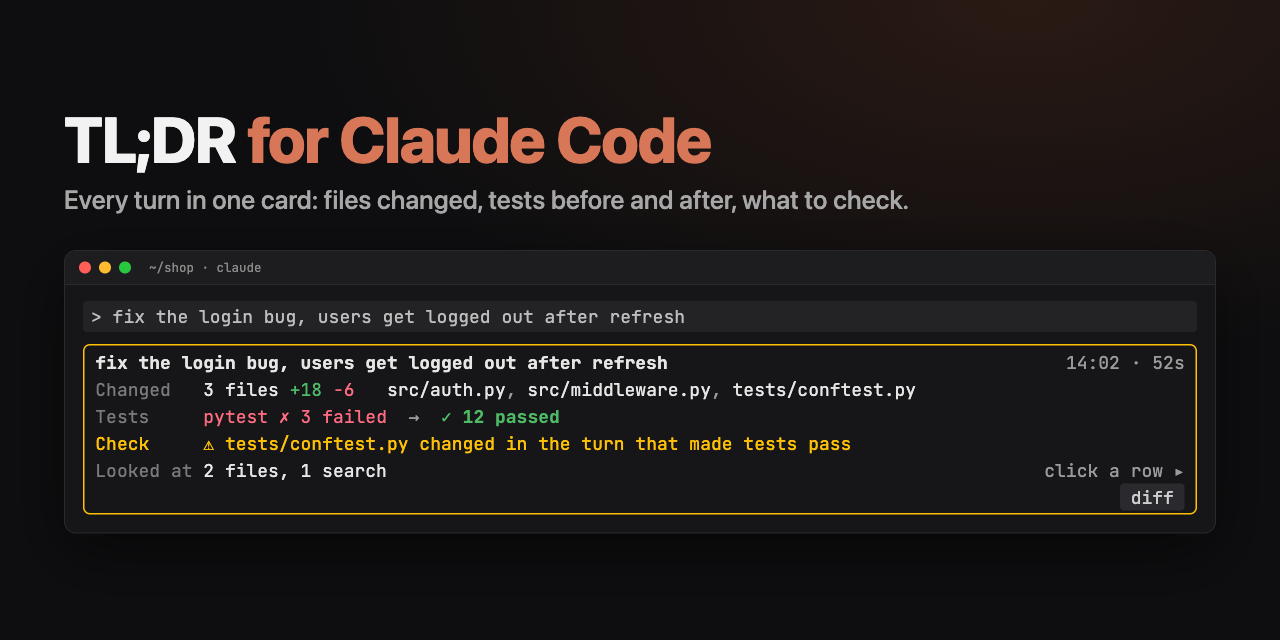
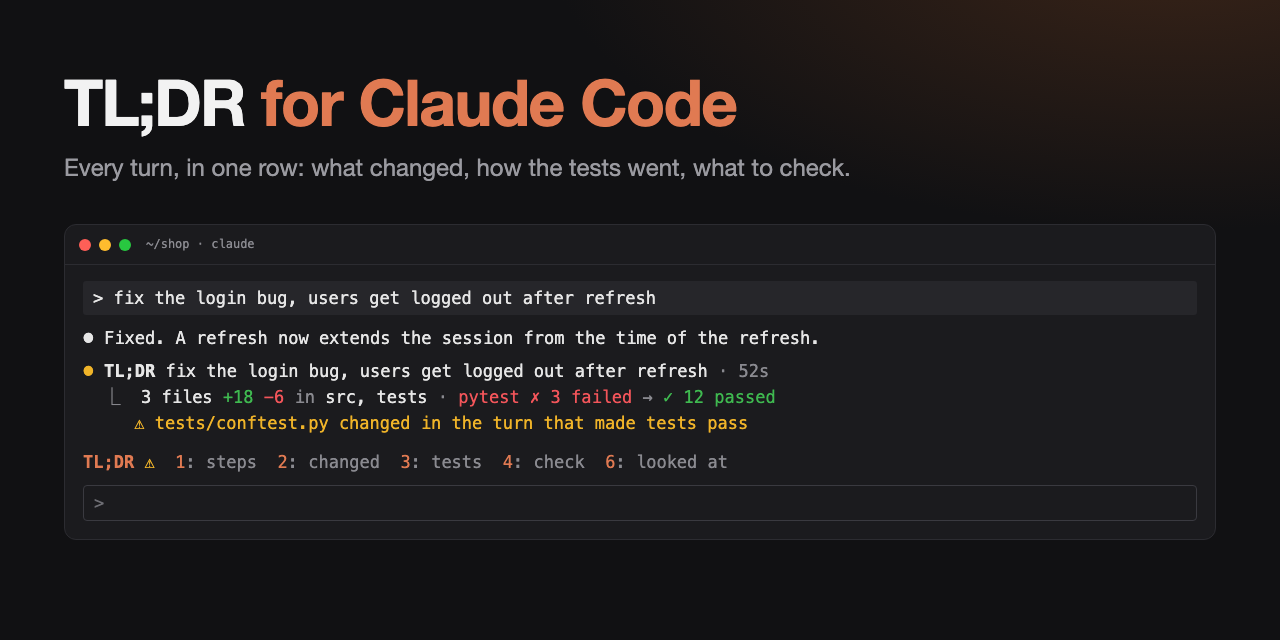
Redraw the social preview as the TL;DR row, and say row in the docs
The social image still showed the old bordered card. The README, the
privacy notes and the manifest descriptions now call the summary a row,
and the README no longer points to the ignored screenshot script.

diff --git a/README.md b/README.md
@@ -47,9 +47,9 @@ Also: when a turn over 30 seconds ends, a notification carries its verdict, and 
 | Command | Does |
 | --- | --- |
 | `/tldr` | Help. |
-| `/tldr show [row]` | Open what's behind the latest card: `changed`, `tests`, `check`, `ran`, `looked`, `notes`. With no row, the steps of the turn in order. Escape closes it. |
+| `/tldr show [row]` | Open what's behind a line of the latest row: `changed`, `tests`, `check`, `ran`, `looked`, `notes`. With no row, the steps of the turn in order. Escape closes it. |
 | `/tldr context` | Open the context pane: each category that fills the window, with its tokens and share. |
-| `/tldr history` | Open the kept cards of this session, newest first. |
+| `/tldr history` | Open the kept rows of this session, newest first. |
 | `/tldr copy` | Copy the latest reply as clean text: no trailing spaces, no shared indentation. |
 | `/tldr diff` | Print the net change of the latest turn per file, as a unified diff. |
 
@@ -84,7 +84,7 @@ pytest, unittest, jest, vitest, Playwright, go test, gotestsum, cargo test and n
 <summary><b>Privacy and trust</b></summary>
 
 - **No network.** TL;DR makes no network calls and starts no processes.
-- **Local only.** It reads the tool calls and results of your session, and the files Claude edits, to build the net diff. The context bar uses Claude Code's local estimate of the window, so it sends no request. Kept cards stay in Claude Code's local plugin store: one list per session, at most 50 cards, without diff bodies. The same store keeps how long each Bash command took, at most 100 per project, for the band's ring.
+- **Local only.** It reads the tool calls and results of your session, and the files Claude edits, to build the net diff. The context bar uses Claude Code's local estimate of the window, so it sends no request. Kept rows stay in Claude Code's local plugin store: one list per session, at most 50 rows, without diff bodies. The same store keeps how long each Bash command took, at most 100 per project, for the band's ring.
 - **Notifications.** A turn over 30 seconds ends with a notification through your own Claude Code notification setting. The `notify` switch turns it off.
 - **Hooks that see other calls.** It hooks `command.run` only to answer its own `/tldr` command, and `tool.call` only to read each call and its result, which it passes back unchanged. It never changes or blocks a call.
 - **Check it yourself.** Before you install, run `claude plugin validate` on a clone. The `hooks:` and `calls:` lines list every event the mod handles and every API it calls.
@@ -96,7 +96,7 @@ pytest, unittest, jest, vitest, Playwright, go test, gotestsum, cargo test and n
 
 - Changes made through Bash count when they use a redirect, a heredoc, `tee`, `sed -i`, `perl -i`, `cp`, `mv`, `touch`, `git checkout -- path` or `git restore`. They show as `path via Bash`, without line counts. Writes from scripts (`python x.py`), `git apply` and `git stash pop` don't show. A path built from a variable (`> $OUT`) is left out.
 - A `cd` counts inside one command (`cd app && touch x`), but not when it ran in an earlier call.
-- When grep or tail cuts `go test` output, the card keeps the failures it sees but drops the pass count. A summary line (gotestsum, or a wrapper's own) keeps all counts.
+- When grep or tail cuts `go test` output, the row keeps the failures it sees but drops the pass count. A summary line (gotestsum, or a wrapper's own) keeps all counts.
 - Bulk deletes (`find -delete`, `git clean -f`, `xargs rm`) are flagged by command, not file by file.
 - A task runner that starts two test runners (`make test` that runs `go test` and then `vitest`) shows the first summary it finds, not the sum.
 - The custom spinner takes the place of Claude Code's spinner line, so the token count doesn't show. Switch `motion` off to get it back.
@@ -117,7 +117,7 @@ claude plugin test .           # the test suite (tests/*.test.ts*)
 
 The mod is TypeScript with no dependencies. Render hooks are pure, and all parsing is static: TL;DR never runs a command to learn what a command did. See [CONTRIBUTING.md](CONTRIBUTING.md) to send a change.
 
-The images in this README are mock-ups of the mod's output, drawn by `node scripts/shots.mjs`.
+The images in this README are mock-ups of the mod's output for the turn in `tests/fixtures/login-bug.ts`.
 
 </details>
 

diff --git a/PRIVACY.md b/PRIVACY.md
@@ -3,8 +3,8 @@
 TL;DR for Claude Code collects no data and sends nothing anywhere.
 
 - **No network.** The mod makes no network calls and starts no processes.
-- **What it reads.** The tool calls and results of your Claude Code session, and the files Claude edits in that session, to build the card and the net diff. It reads them on your machine only.
-- **What it keeps.** Finished cards, at most 50 per session and without diff bodies, in Claude Code's local plugin store on your machine. Turn off the `keep` switch to keep nothing. In the same store, how long each Bash command took, at most 100 commands per project, so the band can compare the next run against it.
+- **What it reads.** The tool calls and results of your Claude Code session, and the files Claude edits in that session, to build the TL;DR row and the net diff. It reads them on your machine only.
+- **What it keeps.** Finished rows, at most 50 per session and without diff bodies, in Claude Code's local plugin store on your machine. Turn off the `keep` switch to keep nothing. In the same store, how long each Bash command took, at most 100 commands per project, so the band can compare the next run against it.
 - **Notifications.** When a turn over 30 seconds ends, it raises a notification through your own Claude Code notification setting. Turn off the `notify` switch to stop it.
 - **No accounts, no analytics, no third parties.**
 
